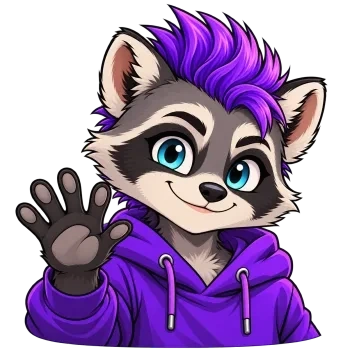
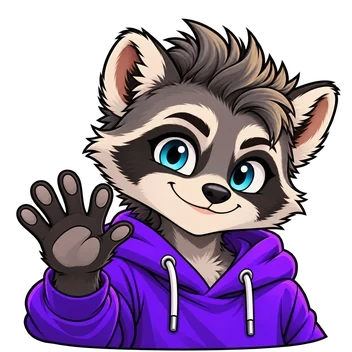
077 FR-077: the raccoon's waiting pose redone without the purple mohawk (review of #1053); agent-apps: Codex reference images

diff --git a/src/renderer/crew/art/ASSETS.md b/src/renderer/crew/art/ASSETS.md
@@ -179,5 +179,5 @@ These 18 pictures (6 characters x working, waiting, resting) are the art of the 
 | `rebels-punkcat-waiting.webp` | punkcat | ChatGPT (image generation) | 2026-10-27 | prompt not supplied with this batch (owner to provide) | Paco (prompting) | resized from 1254x1254 PNG to 352x352 WebP and speck-cleaned (islands of 40 px or fewer removed) by Paco's agent (2026-11-02); sign-off: Paco, 2026-10-27 | MIT, like the code (owner decision, Paco, 2026-10-27, #799; OpenAI terms assign output to the user) | read: OpenAI terms of use, output owned by the user |
 | `rebels-punkcat-working.webp` | punkcat | ChatGPT (image generation) | 2026-10-27 | prompt not supplied with this batch (owner to provide) | Paco (prompting) | resized from 1254x1254 PNG to 352x352 WebP and speck-cleaned (islands of 40 px or fewer removed) by Paco's agent (2026-11-02); sign-off: Paco, 2026-10-27 | MIT, like the code (owner decision, Paco, 2026-10-27, #799; OpenAI terms assign output to the user) | read: OpenAI terms of use, output owned by the user |
 | `rebels-raccoon-resting.webp` | raccoon | ChatGPT (image generation) | 2026-10-27 | prompt not supplied with this batch (owner to provide) | Paco (prompting) | resized from 1254x1254 PNG to 352x352 WebP and speck-cleaned (islands of 40 px or fewer removed) by Paco's agent (2026-11-02); sign-off: Paco, 2026-10-27 | MIT, like the code (owner decision, Paco, 2026-10-27, #799; OpenAI terms assign output to the user) | read: OpenAI terms of use, output owned by the user |
-| `rebels-raccoon-waiting.webp` | raccoon | ChatGPT (image generation) | 2026-10-27 | prompt not supplied with this batch (owner to provide) | Paco (prompting) | resized from 1254x1254 PNG to 352x352 WebP and speck-cleaned (islands of 40 px or fewer removed) by Paco's agent (2026-11-02); sign-off: Paco, 2026-10-27 | MIT, like the code (owner decision, Paco, 2026-10-27, #799; OpenAI terms assign output to the user) | read: OpenAI terms of use, output owned by the user |
+| `rebels-raccoon-waiting.webp` | raccoon | Codex image generation (codex-cli 0.166.0, ChatGPT sign-in) | 2026-11-02 (redo: the purple mohawk replaced by the grey tuft of the other two poses, asked in review of #1053; chosen by Paco) | "Edit the first attached image (the waving raccoon). Keep everything exactly the same ... Change only the hair on top of the head: remove the purple mohawk completely and replace it with the same short, messy grey-brown fur tuft the raccoon has in the second attached image. No purple anywhere on the head or ears ... Fully transparent background" (the two earlier poses attached as references) | Paco's agent (prompting, on Paco's request) | resized from 1254x1254 PNG to 352x352 WebP and speck-cleaned (5 islands, 14 px) by Paco's agent (2026-11-02); sign-off: Paco, 2026-11-02 | MIT, like the code (owner decision, Paco, 2026-10-27, #799; OpenAI terms assign output to the user) | read: OpenAI terms of use, output owned by the user |
 | `rebels-raccoon-working.webp` | raccoon | ChatGPT (image generation) | 2026-10-27 | prompt not supplied with this batch (owner to provide) | Paco (prompting) | resized from 1254x1254 PNG to 352x352 WebP and speck-cleaned (islands of 40 px or fewer removed) by Paco's agent (2026-11-02); sign-off: Paco, 2026-10-27 | MIT, like the code (owner decision, Paco, 2026-10-27, #799; OpenAI terms assign output to the user) | read: OpenAI terms of use, output owned by the user |

diff --git a/docs/agent-apps.md b/docs/agent-apps.md
@@ -87,7 +87,8 @@ Each entry gives its date, the version it was checked on and its evidence (`real
 - **Codex can generate images from the command line, on the ChatGPT plan** (2026-10-31, spec 096; `real:` codex-cli 0.163.0 signed in with ChatGPT, checked by the coordinator on the owner's machine with the owner's approval; not run inside Durbar).
   - *What*: the `image_generation` feature is stable and on in 0.163.0. `codex exec --skip-git-repo-check --ephemeral -s workspace-write -C <empty-folder> "Use your image generation tool to create ONE image and save it in the current folder as <name>.png ..."` makes one PNG in about 1 minute. The image is first written under `~/.codex/generated_images/`, and Codex copies it into the `-C` folder (that is why the sandbox must be `workspace-write`, limited to that folder).
   - *Cost*: with a ChatGPT sign-in it uses the plan's limits, not API money. Codex reports no per-image cost.
-  - *Not checked*: the same through `codex app-server` (a thread with `sandbox: 'workspace-write'`) and the item that reports it; whether "transparent background" is honoured; reference-image input; a multi-panel sheet; an API-key login (that would be charged by OpenAI); Windows and macOS. These are spec 096 probes P1-P6.
+  - *Not checked*: `codex app-server`; a multi-panel sheet; an API-key login (that would be charged by OpenAI); Windows and macOS. These are spec 096 probes P1-P6.
+  - *Seen 2026-11-02* (`real:` 0.166.0): references work (`-i a b -- "<prompt>"`), alpha too. Copy to `-C` failed: take the PNG Codex names.
   - *How to apply*: pass the prompt as one argv element (never a shell string); give Codex an empty temp folder; read back only the file name you asked for (`lstat`, regular file); never read `~/.codex` yourself.
 
 - **Codex on macOS: spawn its resolved path, or its sandbox cannot re-run it** (2026-10-23, spec 012 FR-162, issue #660; `read:` openai/codex#41493; `real:` the owner's Mac, Codex 0.163.0 Homebrew cask, `codex debug prompt-input`, 0 credits). *What:* Codex's fs sandbox helper runs `std::env::current_exe()` again, and on macOS that is the path Codex was started with, **links not resolved** (`/opt/homebrew/bin/codex` -> `/opt/homebrew/Caskroom/codex/<ver>/bin/codex`; the official installer: `~/.local/bin/codex` -> `~/.codex/packages/standalone/...`). Seatbelt canonicalizes read roots, so under a narrow read profile the link is unreadable: `sandbox-exec: execvp() of '/opt/homebrew/bin/codex' failed: Operation not permitted` (exit 71). Started from the resolved path, the same profile works. Linux is not affected (`/proc/self/exe` is resolved); a plain `codex -s read-only` in Terminal works because the default profile reads more. *How to apply:* spawn `fs.realpathSync.native(located)` (`codexSpawnPath`), keep the read root on the resolved folder instead of widening the profile, and check the shim rule on the resolved path too. `sandbox_apply: Operation not permitted` is a different cause (a sandbox inside a sandbox).
